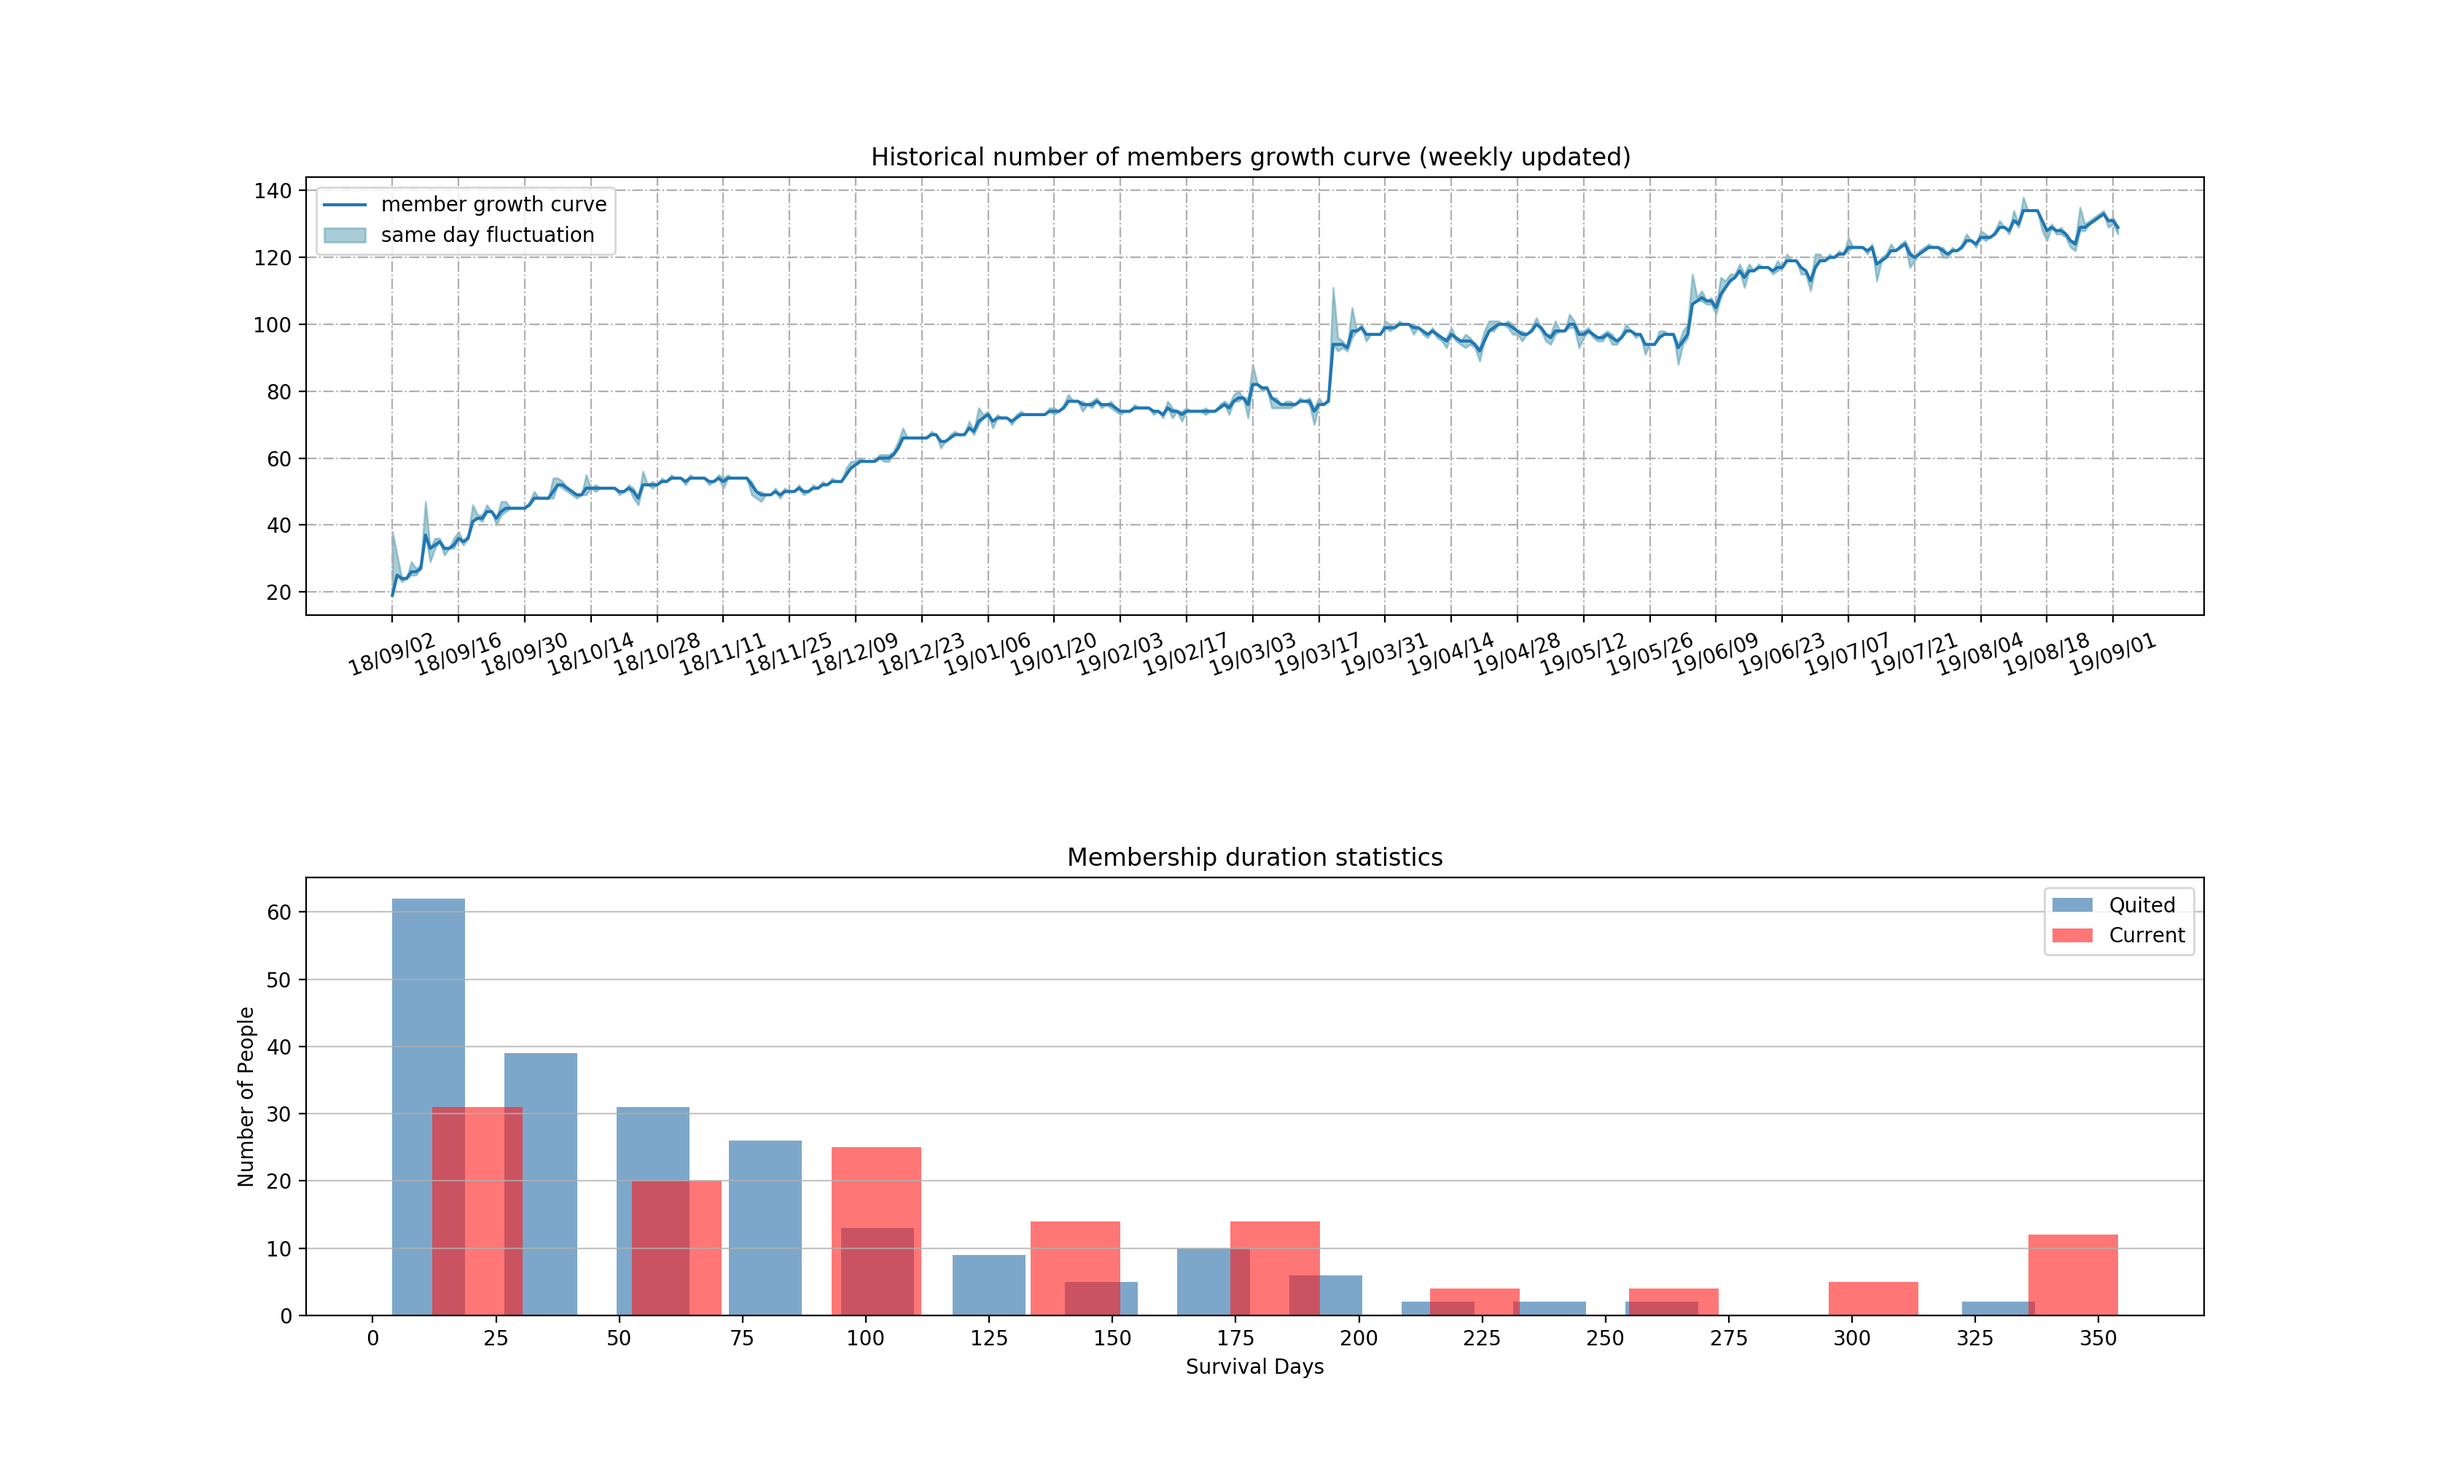
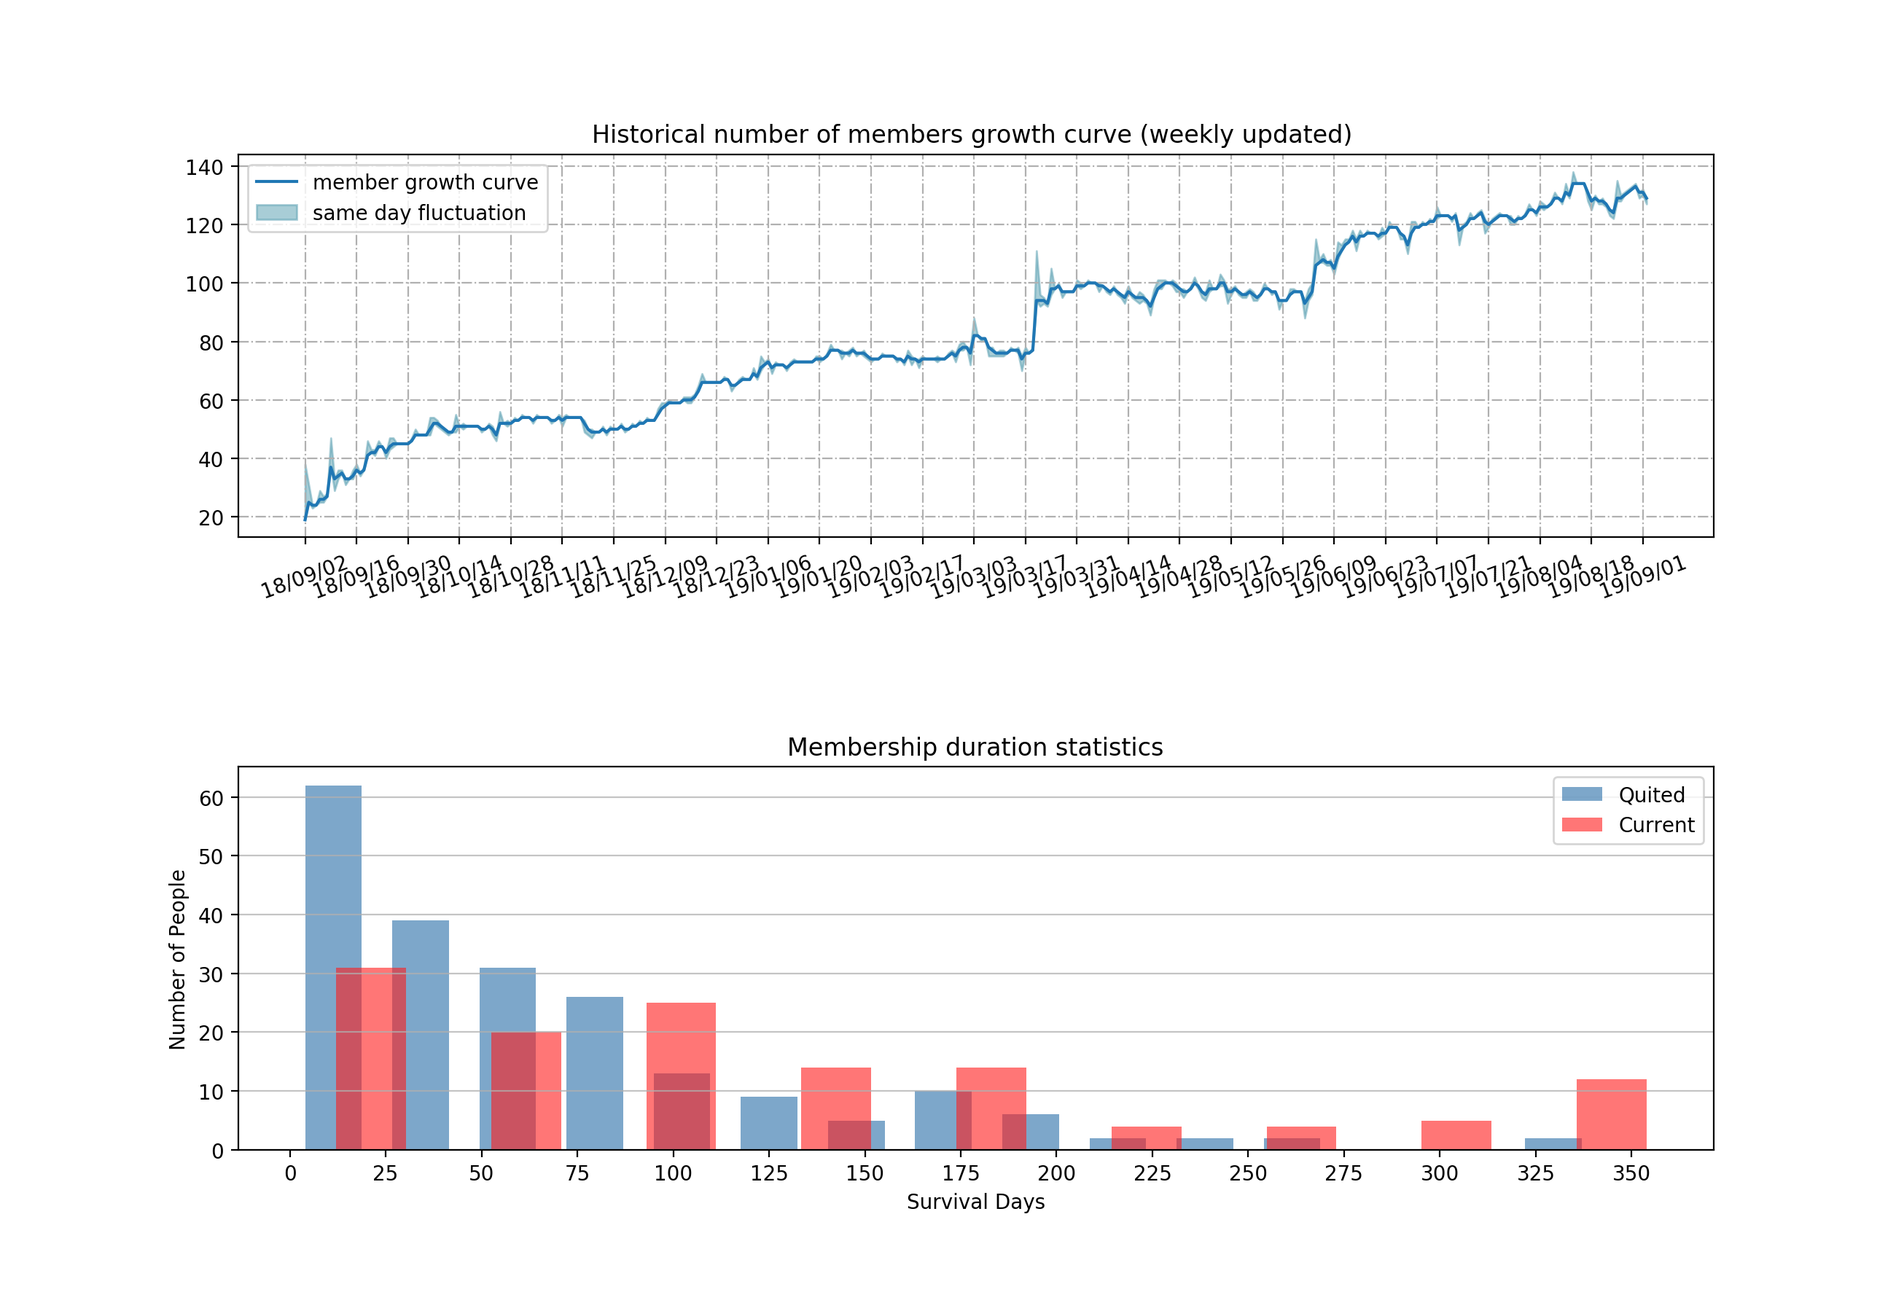
update curve

diff --git a/generateEXCEL/Data/PlotGroupCurve.py b/generateEXCEL/Data/PlotGroupCurve.py
@@ -79,7 +79,7 @@ plt.figure(21,figsize=(10,10))
 
 plt.subplot(211)
 plt.plot(Nums, label = 'member growth curve')
-plt.fill_between(list(range(0,len(Days))), lower, upper, color = '#539caf', alpha = 0.5, label = 'same day fluctuation')
+plt.fill_between(list(range(0,len(Days))), lower, upper, color = '#539caf', alpha = 0.5, label = 'same-day fluctuation')
 plt.xticks( list(range(0, len(Days),14)), Days[:-1:14], rotation=20 ) 
 plt.grid(linestyle='-.')
 plt.title("Historical number of members growth curve (weekly updated) ")
